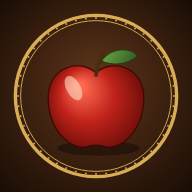
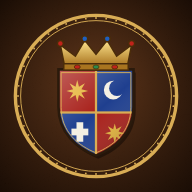
Yeni ad: Age of Dynasties
- Oyun adı, sayfa başlığı, açılış ekranı, üst çubuk ve uygulama
  bilgileri (manifest, iOS ana ekran adı: Dynasties) güncellendi
- Uygulama ikonu: taçlı, dörde bölünmüş arma kalkanı
- Osmanlı'nın Roma hedefinin adı Roma Seferi oldu; eski kayıtlarda
  da yükleme sırasında düzeltilir. Kayıt anahtarı değişmedi.
- Service worker önbellek sürümü artırıldı

Claude-Session: https://claude.ai/code/session_01W5NHATYDuWCuxFMU6xosLR

Changed region(s): [[0.25, 0.1875, 0.75, 0.8125]]

diff --git a/index.html b/index.html
@@ -7,12 +7,12 @@
 <meta name="apple-mobile-web-app-capable" content="yes">
 <meta name="mobile-web-app-capable" content="yes">
 <meta name="apple-mobile-web-app-status-bar-style" content="black-translucent">
-<meta name="apple-mobile-web-app-title" content="Kızıl Elma">
+<meta name="apple-mobile-web-app-title" content="Dynasties">
 <link rel="manifest" href="manifest.webmanifest">
 <link rel="apple-touch-icon" href="icons/apple-touch-icon.png">
 <link rel="icon" type="image/png" href="icons/favicon.png">
 <!--ARTIFACT-START-->
-<title>Kızıl Elma 1451</title>
+<title>Age of Dynasties</title>
 <link rel="preconnect" href="https://fonts.googleapis.com">
 <link rel="preconnect" href="https://fonts.gstatic.com" crossorigin>
 <link rel="stylesheet" href="https://fonts.googleapis.com/css2?family=Cinzel:wght@500;700;900&family=EB+Garamond:ital,wght@0,400;0,500;0,600;0,700;0,800;1,500&display=swap">
@@ -311,6 +311,7 @@ input[type=range]{accent-color:var(--brass)}
 #start .side{border-right:3px double var(--gold);box-shadow:14px 0 40px rgba(0,0,0,.5)}
 .hero h1{font-family:var(--display);font-weight:900;color:var(--brass);text-shadow:0 2px 0 rgba(201,154,59,.45)}
 .hero h1 span{font-family:var(--display);font-weight:700;color:#4a3520;font-size:.3em;letter-spacing:.24em}
+.hero h1 small{display:block;font-size:.42em;letter-spacing:.3em;color:#6e4d27;margin-bottom:2px}
 .hero h1::after{content:"";display:block;height:12px;margin-top:10px;background:var(--divider) left center/240px 12px no-repeat}
 .hero p{color:#4a3520;font-size:17px}
 .fgroup h4{font-family:var(--display);color:var(--brass)}
@@ -330,7 +331,7 @@ input[type=range]{accent-color:var(--brass)}
 <div id="vig"></div>
 
 <header id="top" hidden>
-  <div class="brand">Kızıl Elma<small>Memâlik-i Rûm · MCDLI</small></div>
+  <div class="brand">Age of Dynasties<small>Memâlik-i Rûm · MCDLI</small></div>
   <button class="facbtn" id="facBtn" data-act="state" title="Devlet defteri"><span class="shield" id="pShield"></span><b id="pName"></b></button>
   <div class="res">
     <div class="stat"><label>Hazine</label><b><span id="gold">0</span><small id="goldd"></small></b></div>
@@ -360,7 +361,7 @@ input[type=range]{accent-color:var(--brass)}
   <div class="side">
     <div class="hero">
       <div class="eyebrow">Büyük strateji · Sıra tabanlı · Sesli</div>
-      <h1>Kızıl Elma<span>MCDLI · HİCRÎ 855</span></h1>
+      <h1><small>Age of</small>Dynasties<span>MCDLI · HİCRÎ 855</span></h1>
       <p>Genç bir sultan tahta çıktı, Konstantiniyye surları hâlâ ayakta. Bir devlet seç, ordunu topla, eyalet eyalet genişle. 1531 yılına kadar tarihin akışını değiştir.</p>
     </div>
     <div class="flist" id="flist"></div>
@@ -894,7 +895,7 @@ const MIS={
       {t:'Belgrad Kapısı',d:'Macarların Tuna kalesini düşür.',own:['belgrad'],g:90},
       {t:'Trabzon Seferi',d:'Komnenosların son kalesini al.',own:['trabzon'],g:60},
       {t:'Mısır\'ın Anahtarı',d:'Kahire\'yi fethet.',own:['kahire'],g:250},
-      {t:'Kızıl Elma',d:'Roma\'ya ulaş.',own:['roma'],g:300}],
+      {t:'Roma Seferi',d:'Roma\'yı fethet.',own:['roma'],g:300}],
  BYZ:[{t:'Surları Tut',d:'1455 yazına kadar Konstantiniyye\'yi koru.',hold:'istanbul',until:17,g:120},
       {t:'Mora\'yı Birleştir',d:'Moton ve Anabolu\'yu al.',own:['moton','anabolu'],g:60},
       {t:'Selanik\'i Kurtar',d:'Selanik\'i geri al.',own:['selanik'],g:90},
@@ -1823,7 +1824,7 @@ function showMenu(){openModal(`<div class="eyebrow">${esc(FAC[S.player].n)} · $
  const v=$('#vol');v.addEventListener('input',()=>{$('#volv').textContent=v.value;SND.set('vol',v.value/100);if(!SND.st.on){SND.set('on',true);sndIcon();}});v.addEventListener('change',()=>SND.play('coin'));}
 function showEnd(){const pl=S.player;if(!S.over)return;SND.play(S.over==='lose'?'defeat':'fanfare');const sc=FK.filter(alive).map(f=>({f,s:score(f)})).sort((a,b)=>b.s-a.s);const rank=sc.findIndex(x=>x.f===pl)+1;
  const t=S.over==='win'?'Cihan Hâkimiyeti':S.over==='lose'?'Devletin Sonu':'1531: Bir Devrin Sonu';
- const d=S.over==='win'?`${FAC[pl].n} haritanın yarısından fazlasına hükmediyor. Kızıl Elma'ya ulaştın.`:S.over==='lose'?`${FAC[pl].n} son toprağını da kaybetti. Tarih kitapları seni bir dipnot olarak anacak.`:`Seksen yıllık hükümranlık sona erdi. Devletin güçler arasında ${rank}. sırada.`;
+ const d=S.over==='win'?`${FAC[pl].n} haritanın yarısından fazlasına hükmediyor. Hanedanın tarihe adını altın harflerle yazdırdı.`:S.over==='lose'?`${FAC[pl].n} son toprağını da kaybetti. Tarih kitapları seni bir dipnot olarak anacak.`:`Seksen yıllık hükümranlık sona erdi. Devletin güçler arasında ${rank}. sırada.`;
  openModal(`<div class="eyebrow endm">${dateStr(S.turn)}</div><h2>${t}</h2><p class="lead">${d}</p>
  <div class="rows">${sc.slice(0,8).map((x,k)=>`<div class="row" style="${x.f===pl?'background:rgba(142,31,20,.12)':''}">${shield(x.f)}<div class="nm">${k+1}. ${esc(FAC[x.f].n)}<small>${facProvs(x.f).length} eyalet</small></div><b>${x.s}</b></div>`).join('')}</div>
  <p class="hint">Oyun sona erdi. Haritaya bakabilirsin; üst çubuktaki <b>Oyun bitti</b> düğmesi bu ekranı yeniden açar.</p>
@@ -1846,7 +1847,7 @@ function beginGame(f){newGame(f);startPick=null;$('#start').hidden=true;enterGam
 function enterGame(){$('#top').hidden=false;$('#zoom').hidden=false;startPick=null;polDirty=true;hlKey='';renderTop();const c=S.fac[S.player].cap;centerOn(PD[c].lx,PD[c].ly,clamp(Math.min(vw,vh)/560,fitS,2.2)*(G3.on?1.3:1));renderAll();
  if(S.over)queueModal(showEnd);else if(S.pendEv!=null)randomEvent(S.pendEv);}
 function save(){try{localStorage.setItem(SAVE,JSON.stringify(S));}catch(e){}}
-function loadGame(){try{const s=JSON.parse(localStorage.getItem(SAVE));if(!s||!s.prov||s.prov.length!==NP)throw 0;S=s;FK.forEach(f=>{if(!S.fac[f])S.fac[f]={gold:0,mp:0,alive:false,cap:-1,cannon:0,nextOffer:0};});S.offers=S.offers||[];pruneOffers();$('#start').hidden=true;enterGame();}
+function loadGame(){try{const s=JSON.parse(localStorage.getItem(SAVE));if(!s||!s.prov||s.prov.length!==NP)throw 0;S=s;(S.mis||[]).forEach(m=>{if(m.t==='Kızıl Elma'){m.t='Roma Seferi';m.d='Roma\'yı fethet.';}});FK.forEach(f=>{if(!S.fac[f])S.fac[f]={gold:0,mp:0,alive:false,cap:-1,cannon:0,nextOffer:0};});S.offers=S.offers||[];pruneOffers();$('#start').hidden=true;enterGame();}
  catch(e){toast('Kayıtlı oyun okunamadı. Yeni bir oyun başlat.','war');}}
 
 /* ---------------- boot ---------------- */

diff --git a/sw.js b/sw.js
@@ -1,5 +1,5 @@
-// Offline cache for Kızıl Elma. Bump VERSION on every release so players get the new build.
-const VERSION='kizil-elma-v1';
+// Offline cache for Age of Dynasties. Bump VERSION on every release so players get the new build.
+const VERSION='aod-v2';
 const SHELL=['./','./index.html','./manifest.webmanifest','./icons/icon-192.png','./icons/icon-512.png','./icons/apple-touch-icon.png'];
 const CDN=['https://cdnjs.cloudflare.com/ajax/libs/three.js/r128/three.min.js'];
 self.addEventListener('install',e=>{e.waitUntil(caches.open(VERSION).then(c=>c.addAll(SHELL).then(()=>Promise.all(CDN.map(u=>fetch(u,{mode:'no-cors'}).then(r=>c.put(u,r)).catch(()=>{})))))
